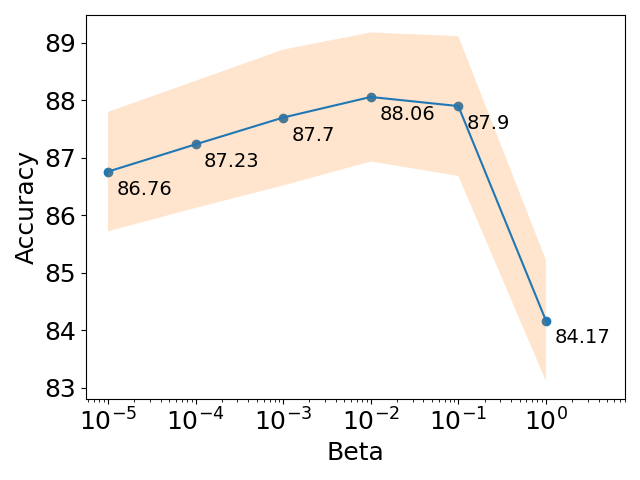
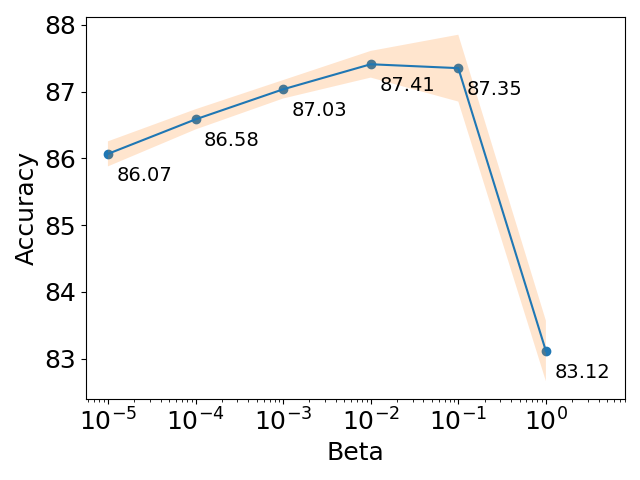
Add naive bayes rank works function

diff --git a/src/model/naive_bayes.py b/src/model/naive_bayes.py
@@ -1,4 +1,5 @@
 import numpy as np
+from scipy.stats import entropy
 
 
 def MLE(labels):
@@ -58,18 +59,22 @@ class NaiveBayes:
     
     def __init__(self, beta=None):
         self.beta = beta
+        self.mle = None
+        self.map = None
+        self.weight = None
     
     def train(self, x, y):
         """
-        Train NaiveBayes Classifier with a training dataframe.
+        Train NaiveBayes Classifier with a training dataframe, and store
+        the log values to avoid recalculating them in evaluation phase.
         
         Parameters
         ----------
-        x : dataframe of data
-        y : dataframe of labels
+        x : dataframe of data.
+        y : dataframe of labels.
         """
-        self.df_mle = np.log2(MLE(y))
-        self.df_map = np.log2(MAP(x, y, self.beta))
+        self.df_mle = MLE(y)
+        self.df_map = MAP(x, y, self.beta)
         
     def eval(self, x):
         """
@@ -77,14 +82,34 @@ class NaiveBayes:
         
         Parameters
         ----------
-        x : dataframe of data
+        x : dataframe of data.
         
         Returns
         -------
         y: dataframe with labels column.
         """
-        product = x.dot(self.df_map.T)
-        add = np.add(product, self.df_mle)
+        log_mle = np.log2(self.df_mle)
+        log_map = np.log2(self.df_map)
+        product = x.dot(log_map.T)
+        add = np.add(product, log_mle)
         y = np.reshape(np.argmax(add, axis=1), newshape=(x.shape[0], 1))
         return y + 1
+    
+    def rank_words(self, topk=100):
+        """
+        Rank words based in the impurity of each word. To measure impurtiy we
+        use the Gini index after normalizing probabilities per word to sum up
+        1. 
         
+        Parameters
+        ----------
+        topk : the number or words index that should be returned.
+        
+        Returns
+        -------
+        sort_idx: index of the words ranked by influence of the optimizer.
+        """
+        self.weight = self.df_map / self.df_map.sum(axis=0)
+        self.weight = -1*np.power(self.weight, 2).sum(axis=0)
+        sort_idx = np.argsort(self.weight)[:topk]
+        return sort_idx

diff --git a/main_naive_bayes.py b/main_naive_bayes.py
@@ -20,6 +20,7 @@ if __name__ == '__main__':
     args = parser.parse_args()
     
     labels = np.array(pd.read_csv(args.labels, sep=' ', names=['name'])['name'])
+    vocabulary = np.array(pd.read_csv(args.vocabulary, sep=' ', names=['name'])['name'])
     
     train_array = read_large_df(args.train_file)
     train_x, train_y = train_array[:,1:-1], train_array[:,-1]
@@ -30,7 +31,7 @@ if __name__ == '__main__':
     b_std = []
     b_val = [0.00001, 0.0001, 0.001, 0.01, 0.1, 1]
     for b in b_val:
-        scores = cross_validation_split(train_x, train_y, NaiveBayes(beta=b))
+        scores = cross_validation_split(train_x, train_y, NaiveBayes(beta=b), n_splits=5)
         acc = np.mean(scores * 100)
         std = np.std(scores * 100)
         b_acc.append(acc)
@@ -54,7 +55,7 @@ if __name__ == '__main__':
     train_y = train_y.toarray()
     val_y = val_y.toarray()
     
-    model = NaiveBayes(beta=0.01)
+    model = NaiveBayes()
     model.train(train_x, train_y)
     train_pred = model.eval(train_x)
     val_pred = model.eval(val_x)
@@ -62,6 +63,10 @@ if __name__ == '__main__':
     print(f'Val accuracy: {np.round((val_y==val_pred).mean()*100, 2)}%')
     
     plot_confussion_matrix(val_y, val_pred, labels, 'cm_naive_bayes.png')
+    
+    sort_idx = model.rank_words(topk=20)
+    words = vocabulary[sort_idx]
+    print(words)
         
     test_array = read_large_df(args.test_file)
     test_idx, test_x = test_array[:,0].toarray(), test_array[:,1:]
